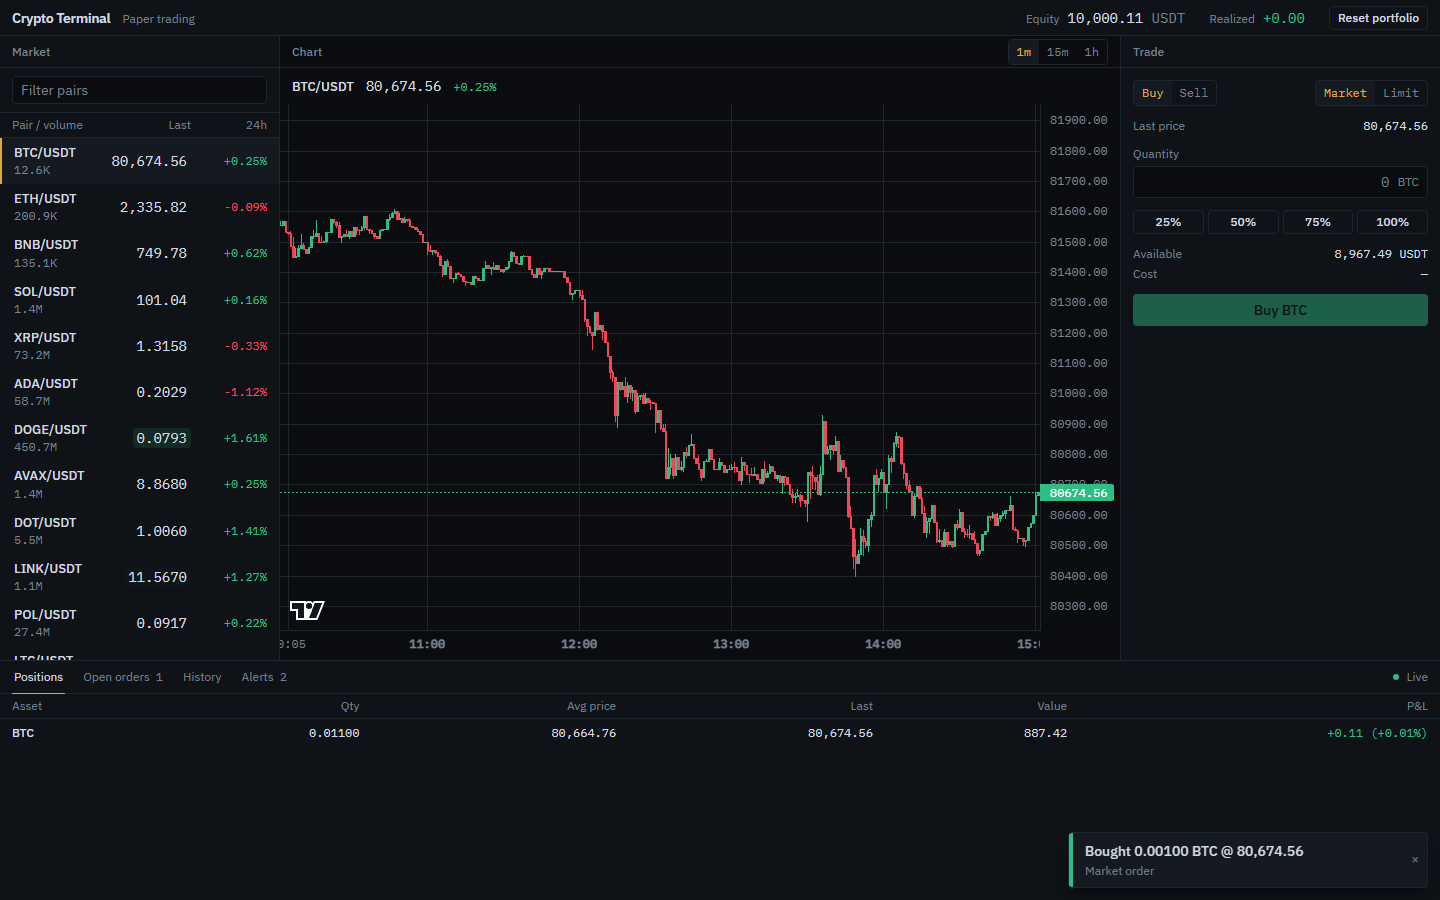
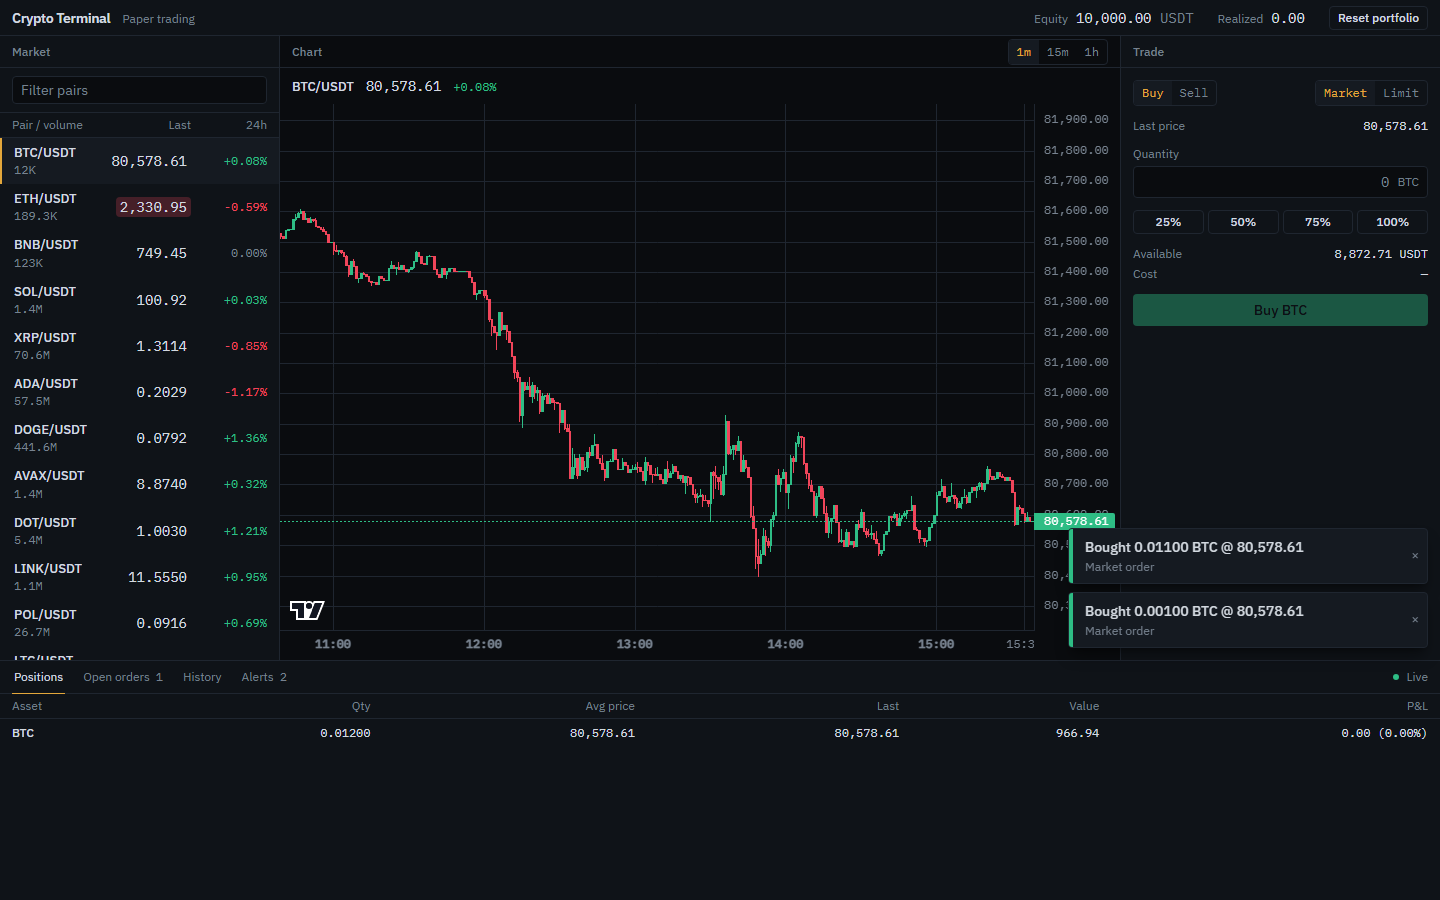
docs: chart debounce and request abort in the saga table, fresh screenshot, test counts
R35/R36 noted in the chartSaga row, marketStreamSaga cleanup wording, 267 tests in 49 files, screenshot re-taken at 1440x900.

diff --git a/README.md b/README.md
@@ -20,7 +20,8 @@ redux-saga.
   15m and 1h. It loads 300 candles over REST and then follows the kline stream. If the history
   request fails, the chart says so and draws live candles only.
 - **Paper trading** from a virtual 10,000 USDT balance. Market and limit orders, buy and sell,
-  25/50/75/100 % quantity shortcuts, live cost and proceeds, inline validation. Funds are reserved
+  25/50/75/100 % quantity shortcuts that follow the live price, a limit price prefilled on the
+  valid side of the market, live cost and proceeds, inline validation. Funds are reserved
   when a limit order is placed and released when it is cancelled.
 - **Portfolio.** Positions with average entry price and unrealized P&L, total equity, realized
   P&L, open orders and trade history. Reset portfolio restores the starting balance.
@@ -88,34 +89,36 @@ put(tickersUpdated([...]))           one action per batch, at most ~4 per second
 [`rootSaga`](src/app/rootSaga.ts) starts every saga below under `all`, each wrapped in
 `supervise`, then dispatches `appStarted`.
 
-| Saga                                                                   | What it does                                                                                                                                                                                                                                                                                                                                                                                                                   | Effects and patterns                                                                                                                                                                                                        |
-| ---------------------------------------------------------------------- | ------------------------------------------------------------------------------------------------------------------------------------------------------------------------------------------------------------------------------------------------------------------------------------------------------------------------------------------------------------------------------------------------------------------------------ | --------------------------------------------------------------------------------------------------------------------------------------------------------------------------------------------------------------------------- |
-| [`marketStreamSaga`](src/features/market/marketStreamSaga.ts)          | Owns the market socket. Subscribes all ticker streams, opens the connection, drains messages in 250 ms windows and dispatches one `tickersUpdated` per window. Treats close, error or 30 s of silence as a lost connection and reconnects with exponential backoff (1 s doubling to a 30 s cap), moving to the fallback host after two failed attempts. Reports Live, Reconnecting (attempt n) or Offline after five failures. | `eventChannel` with `buffers.sliding`, `flush`, `race` (batch tick vs. `stop`, backoff vs. `stop`), `delay`, retry loop, `call` with a `[context, method]` pair, `cancelled()` in `finally` to close the channel and socket |
-| [`chartSaga`](src/features/chart/chartSaga.ts)                         | On pair or interval change, on boot and after every reconnect: unsubscribes the stale kline stream, subscribes the new one before fetching (so no live candle is lost while history loads), fetches 300 candles. A reconnect refreshes the same chart silently instead of blanking it.                                                                                                                                         | `takeLatest` with a predicate pattern (cancels the in-flight fetch when superseded), `select`, `call`, `put`, `cancelled()`                                                                                                 |
-| [`tradeSaga`](src/features/orders/tradeSaga.ts)                        | Validates an order request against the live price, connection status and available balance, then fills a market order at the last price or places a limit order. Routes cancel requests through a guard, so a cancel that arrives after the order already filled cannot release funds twice.                                                                                                                                   | `takeEvery`, `select`, `put`, `all`                                                                                                                                                                                         |
-| [`orderWatcherSaga`](src/features/orders/orderWatcherSaga.ts)          | One forked watcher per open limit order, spawned on placement and re-spawned on boot for restored orders. Each waits for a live tick that crosses its limit and races that against cancellation and portfolio reset. Only ticks that arrive after the watcher starts count, so a reload can never fill an order from stale state.                                                                                              | `fork` per entity, `take` in a loop, `take` with a predicate, `race` (fill vs. cancel vs. reset), `select`                                                                                                                  |
-| [`alertSaga`](src/features/alerts/alertSaga.ts)                        | Validates new alerts (an alert that is already true is rejected) and runs one watcher per active alert, restored ones included. Each races the price level against deletion and reset, then dispatches `alertTriggered`.                                                                                                                                                                                                       | `takeEvery`, `fork` per entity, `race`, `take` with a predicate, `select`, `put`                                                                                                                                            |
-| [`toastSaga`](src/features/notifications/toastSaga.ts)                 | Dismisses each toast after 6 s unless the user closed it first.                                                                                                                                                                                                                                                                                                                                                                | `takeEvery`, `race` (`delay` vs. a matching dismiss action)                                                                                                                                                                 |
-| [`notificationsSaga`](src/features/notifications/notificationsSaga.ts) | Turns domain events (fills, triggered alerts, rejections) into toasts, so no reducer or component has to know about notifications.                                                                                                                                                                                                                                                                                             | `takeEvery` over several action types, `select`, `put`                                                                                                                                                                      |
-| [`persistenceSaga`](src/app/persistenceSaga.ts)                        | Writes the persisted slices 500 ms after the last change to any of them, and flushes synchronously on `pagehide`. Listens to the `storage` event: when another tab writes the key, it shows a "reload to sync" banner and stops writing from this tab.                                                                                                                                                                         | `debounce` over an action list, `select`, `call`, `eventChannel` over DOM events, `fork`                                                                                                                                    |
-| [`supervise`](src/app/supervise.ts)                                    | Wraps every root saga: if one throws, it is restarted after 1 s instead of cancelling its siblings under `all`. Gives up after five restarts to avoid a crash loop.                                                                                                                                                                                                                                                            | `try`/`catch` around `call`, `delay`, restart loop                                                                                                                                                                          |
+| Saga                                                                   | What it does                                                                                                                                                                                                                                                                                                                                                                                                                                                                                                                                                                            | Effects and patterns                                                                                                                                                                                                                             |
+| ---------------------------------------------------------------------- | --------------------------------------------------------------------------------------------------------------------------------------------------------------------------------------------------------------------------------------------------------------------------------------------------------------------------------------------------------------------------------------------------------------------------------------------------------------------------------------------------------------------------------------------------------------------------------------- | ------------------------------------------------------------------------------------------------------------------------------------------------------------------------------------------------------------------------------------------------ |
+| [`marketStreamSaga`](src/features/market/marketStreamSaga.ts)          | Owns the market socket. Subscribes all ticker streams, opens the connection, drains messages in 250 ms windows and dispatches one `tickersUpdated` per window. Treats close, error or 30 s of silence as a lost connection and reconnects with exponential backoff (1 s doubling to a 30 s cap), moving to the fallback host after two failed attempts. Reports Live, Reconnecting (attempt n) or Offline after five failures.                                                                                                                                                          | `eventChannel` with `buffers.sliding`, `flush`, `race` (batch tick vs. `stop`, backoff vs. `stop`), `delay`, retry loop, `call` with a `[context, method]` pair, `finally` that always closes the channel, and the socket too when `cancelled()` |
+| [`chartSaga`](src/features/chart/chartSaga.ts)                         | On pair or interval change, on boot and after every reconnect: unsubscribes the stale kline stream, subscribes the new one before fetching (so no live candle is lost while history loads), fetches 300 candles. A pair or interval switch shows loading at once but waits 350 ms before touching the socket, so rapid clicking stays under Binance's limit of 5 control messages per second. Each load owns an `AbortController`: a superseded load aborts its HTTP request, and every host gets an 8 s timeout. A reconnect refreshes the same chart silently instead of blanking it. | `takeLatest` with a predicate pattern plus `delay` as a debounce, `select`, `call`, `put`, `cancelled()` in `finally` to abort the superseded request                                                                                            |
+| [`tradeSaga`](src/features/orders/tradeSaga.ts)                        | Validates an order request against the live price, connection status and available balance, then fills a market order at the last price or places a limit order. Routes cancel requests through a guard, so a cancel that arrives after the order already filled cannot release funds twice.                                                                                                                                                                                                                                                                                            | `takeEvery`, `select`, `put`, `all`                                                                                                                                                                                                              |
+| [`orderWatcherSaga`](src/features/orders/orderWatcherSaga.ts)          | One forked watcher per open limit order, spawned on placement and re-spawned on boot for restored orders. Each waits for a live tick that crosses its limit and races that against cancellation and portfolio reset. Only ticks that arrive after the watcher starts count, so a reload can never fill an order from stale state.                                                                                                                                                                                                                                                       | `fork` per entity, `take` in a loop, `take` with a predicate, `race` (fill vs. cancel vs. reset), `select`                                                                                                                                       |
+| [`alertSaga`](src/features/alerts/alertSaga.ts)                        | Validates new alerts (an alert that is already true is rejected) and runs one watcher per active alert, restored ones included. Each races the price level against deletion and reset, then dispatches `alertTriggered`.                                                                                                                                                                                                                                                                                                                                                                | `takeEvery`, `fork` per entity, `race`, `take` with a predicate, `select`, `put`                                                                                                                                                                 |
+| [`toastSaga`](src/features/notifications/toastSaga.ts)                 | Dismisses each toast after 6 s unless the user closed it first.                                                                                                                                                                                                                                                                                                                                                                                                                                                                                                                         | `takeEvery`, `race` (`delay` vs. a matching dismiss action)                                                                                                                                                                                      |
+| [`notificationsSaga`](src/features/notifications/notificationsSaga.ts) | Turns domain events (fills, triggered alerts, rejections) into toasts, so no reducer or component has to know about notifications.                                                                                                                                                                                                                                                                                                                                                                                                                                                      | `takeEvery` over several action types, `select`, `put`                                                                                                                                                                                           |
+| [`persistenceSaga`](src/app/persistenceSaga.ts)                        | Writes the persisted slices 500 ms after the last change to any of them, and flushes synchronously on `pagehide`. Listens to the `storage` event: when another tab writes the key, it shows a "reload to sync" banner and stops writing from this tab.                                                                                                                                                                                                                                                                                                                                  | `debounce` over an action list, `select`, `call`, `eventChannel` over DOM events, `fork`                                                                                                                                                         |
+| [`supervise`](src/app/supervise.ts)                                    | Wraps every root saga: if one throws, it is restarted after 1 s instead of cancelling its siblings under `all`. Gives up after five restarts to avoid a crash loop.                                                                                                                                                                                                                                                                                                                                                                                                                     | `try`/`catch` around `call`, `delay`, restart loop                                                                                                                                                                                               |
 
 ## Testing
 
-`npm run check` runs oxlint, the TypeScript build and the full test suite: 236 tests in 47 files.
+`npm run check` runs oxlint, the TypeScript build and the full test suite: 267 tests in 49 files.
 
-- **Sagas** (70 tests): `redux-saga-test-plan` `expectSaga` runs with the socket client, REST
+- **Sagas** (73 tests): `redux-saga-test-plan` `expectSaga` runs with the socket client, REST
   client and storage provided as fakes. They cover backoff and host switching, silence timeouts,
-  cancellation cleanup, `takeLatest` superseding a fetch, fill vs. cancel races, restored watchers
-  and debounced writes.
-- **Components** (59 tests): React Testing Library for the trade form validation, market row
-  flash, toasts, tables, tabs and the multi-tab banner. Plus an integration test
+  cancellation cleanup, `takeLatest` superseding a fetch, debounced chart switches, aborted
+  superseded requests, fill vs. cancel races, restored watchers and debounced writes.
+- **Components** (71 tests): React Testing Library for the trade and alert forms (prefills,
+  percent shortcuts that follow the price, validation), market row flash, the chart's price
+  format, toasts, tables, tabs and the multi-tab banner. Plus an integration test
   ([`App.integration.test.tsx`](src/App.integration.test.tsx)) that renders `<App/>` on the real
   store with every saga running, drives a fake socket and checks that a streamed price, a market
   buy, a toast and a cancelled limit order all come out right.
-- **Units** (107 tests): reducers, memoized selectors, order and alert validation, money math
-  (no dust, no negative balances), Binance message parsing, host selection, and the socket client
-  against a fake `WebSocket`.
+- **Units** (123 tests): reducers, memoized selectors, order and alert validation, input parsing,
+  P&L display, money math (no dust, no negative balances), Binance message parsing, kline fetch
+  fallback, timeouts and cancellation, host selection, and the socket client against a fake
+  `WebSocket`.
 
 ## Run locally
 
@@ -136,7 +139,7 @@ npm run preview   # serve dist/ at http://localhost:4173/crypto-terminal/
   limit price. Long only: you can sell what you hold, not more.
 - **Market orders need a live feed.** While reconnecting or offline the button is disabled.
   Limit orders and alerts can still be placed; offline, their price checks use the last known
-  price (the form marks it as stale) and they are matched once live ticks resume.
+  price (the form labels it as the last known price) and they are matched once live ticks resume.
 - **Binance availability depends on the region.** Some countries and networks block Binance
   hosts. The app then shows Offline and keeps retrying; there is no second exchange.
 - **One tab at a time.** Each tab runs its own watchers. When another tab changes the saved
